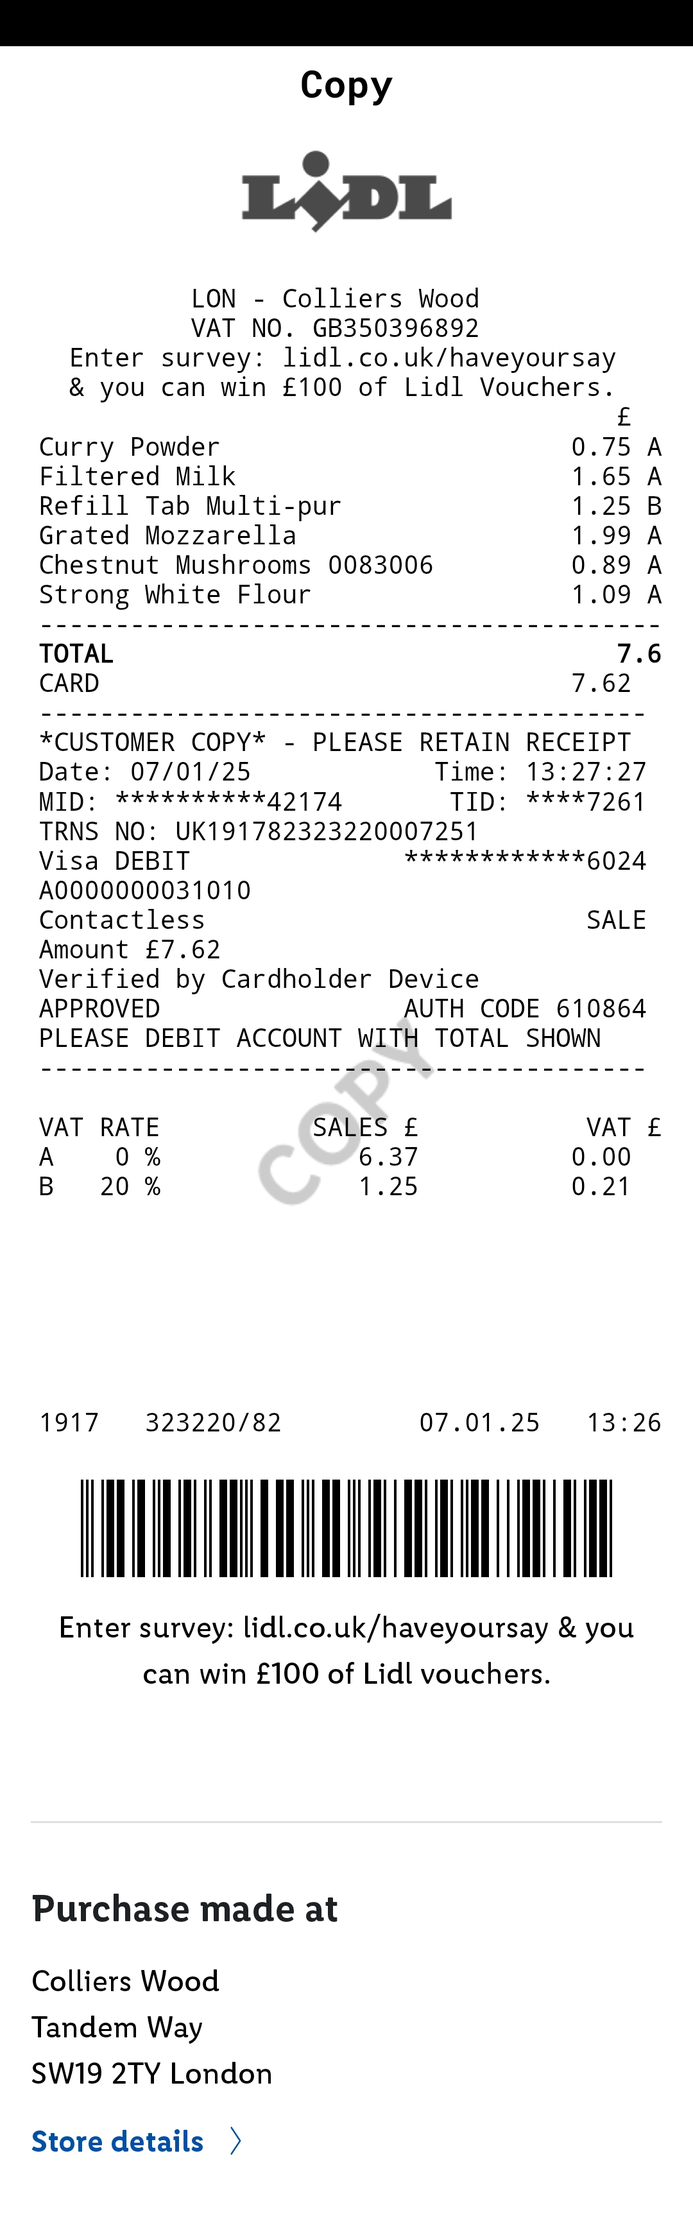
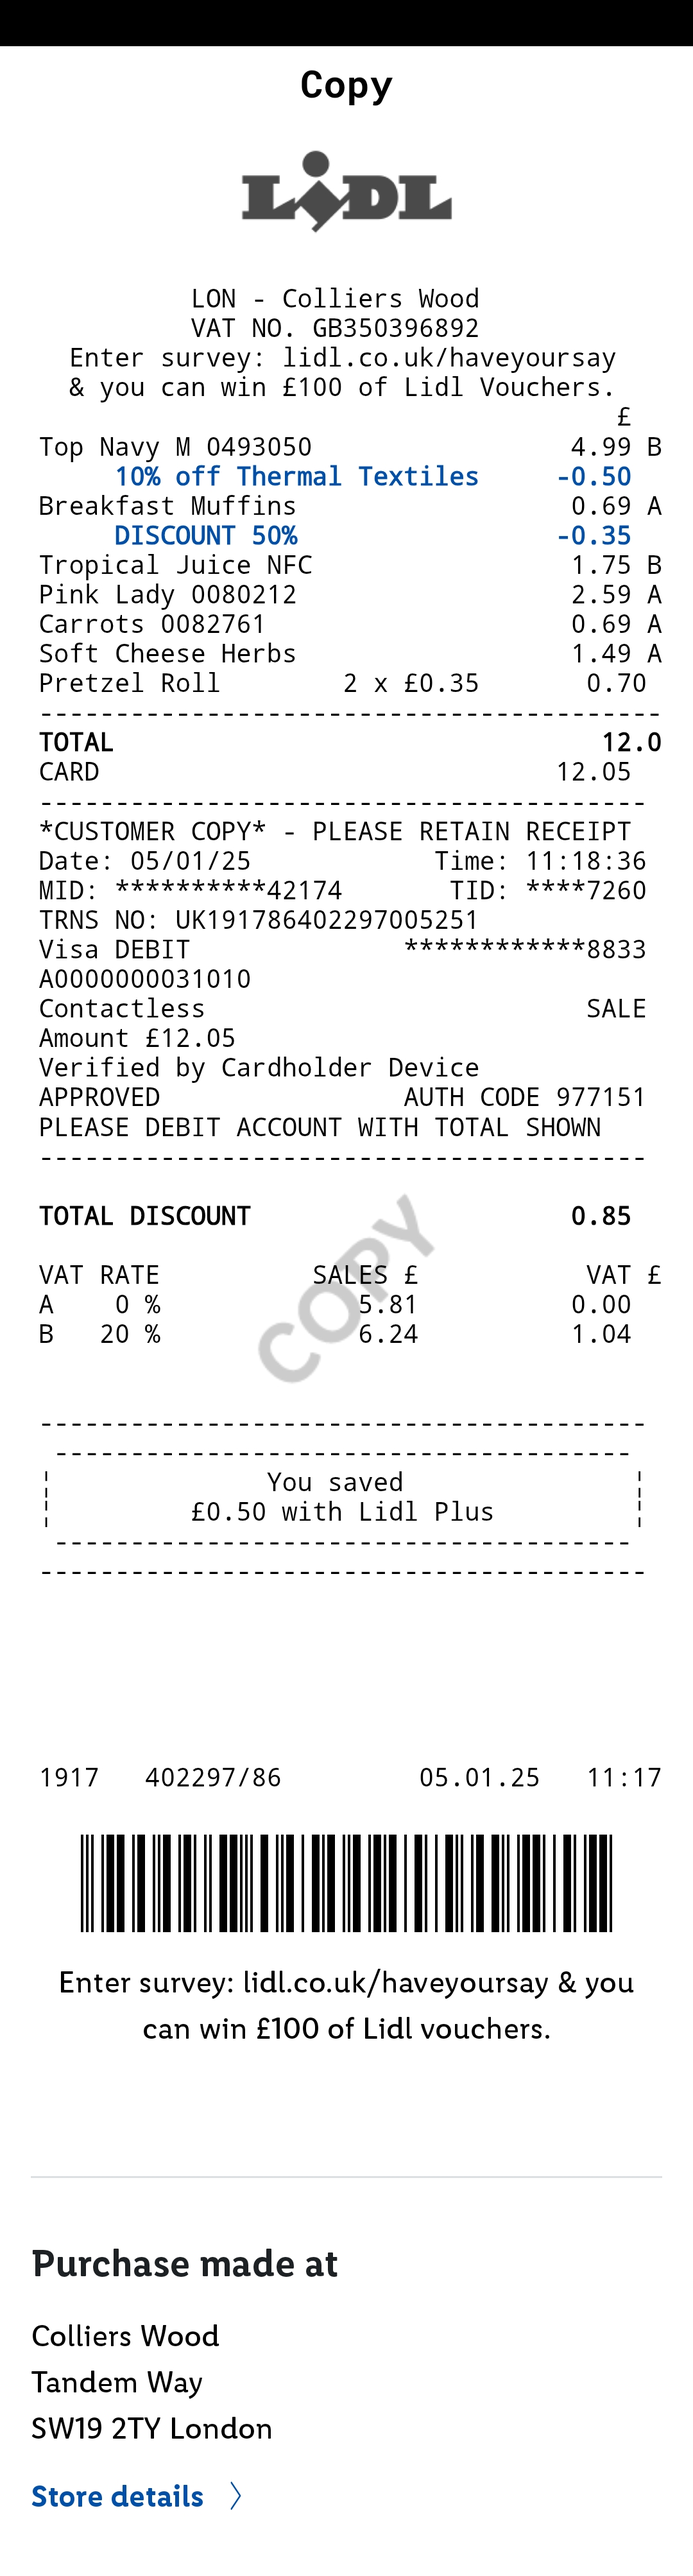
Fixed Lidl Card / Total Issues

diff --git a/PythonSrc/receipt_reader.py b/PythonSrc/receipt_reader.py
@@ -24,17 +24,30 @@ class ReceiptReader:
     def __init__(self,logger):
         self.compile_regex()
         self.logger = logger
+        self.log(message="Receipt reader initialized")
         self.file_handler = fh.FileHandler()
 
+    def log(self,message):
+        if self.logger:
+            self.logger.log_message(message)
+            return True
+        else:
+            return False
+        
+    # Retrieves the receipts from the receipts directory
     def get_receipts(self):
 
+        # Lists to hold the receipts to be processed and the excluded files
         receipts = []
         excluded_files = []
 
+        # Loops through all the files in the receipts directory
         for file in os.listdir(self.receipt_dir):
             
+            # Full path to the receipt
             receipt_loc = os.path.join(self.receipt_dir,file)
 
+            # Check whether the file is a valid photo
             pass_extension_check = self.file_extension_check(file)
             pass_openable_photo_check = self.open_photo_check(file,self.receipt_dir)
 
@@ -128,8 +141,7 @@ class ReceiptReader:
     
         text = pytesseract.image_to_string(denoised,lang='eng')
         lines = [line for line in text.splitlines() if line.strip()]
-        
-        print(lines)
+
         json_receipt = self.extract_items(lines)
 
         return json_receipt
@@ -141,7 +153,7 @@ class ReceiptReader:
         self.date_search = re.compile(r"(Date:\s+)(\d{2}\/\d{2}\/\d{2})")
         self.item_search = re.compile(r"(.*\s)(-?\d{1,3}\.\d{2})")
         self.total_search = re.compile(r"(TOTAL)(\s+)(\d{1,4}\.\d{1,2})")
-        self.payment_search = re.compile(r"CARD", re.IGNORECASE)
+        self.payment_search = re.compile(r"(CARD)(\s+)(\d{1,4}\.\d{1,2})")
         self.discount_search = re.compile(r"(TOTAL DISCOUNT\s*)(\d{1,2}.\d{1,2})")
         self.quantity_check = re.compile(r"(\d{1,2})(\s?[xX]{1,2}\s*£\d{1,2}.\d{1,2})")
         self.weight_check = re.compile(r"(\d{1,2}\.\d{1,3})(\s?kg\s?@\s?£\s?)(\d{1,2}\.\d{1,2})")
@@ -160,9 +172,6 @@ class ReceiptReader:
 
                if match:
 
-                   # Looking for payment information to skip
-                   payment = self.payment_search.search(match.group())
-
                    # Retrieves the total cost on the receipt
                    total_cost = self.total_search.search(match.group())
 
@@ -176,13 +185,16 @@ class ReceiptReader:
                    elif total_cost:
                        receipt_dict.update({"total":f"{total_cost.group(3)}"})
 
-                   elif not payment and not total_cost:
+                   elif not total_cost:
                        
                        quantity_check = self.quantity_check.search(line)
                        
                        weight_check_next = self.weight_check.search(text[i+1])
                        
                        weight_check_current = self.weight_check.search(line)
+
+                       # Introduced as part of LidlTotalFix
+                       card_cost = self.payment_search.search(line)
 
                        # Checks whether there is a quantity given for the item bought
                        if quantity_check:
@@ -202,6 +214,9 @@ class ReceiptReader:
                        elif weight_check_current:
                            continue
                        
+                       elif card_cost:
+                           receipt_dict.update({"total":f"{card_cost.group(3)}"})
+
                        # In general, add the name and price only
                        else:
                            items.append({"name":f"{match.group(1)}".strip(),
@@ -214,10 +229,10 @@ class ReceiptReader:
                
                if date:
                    receipt_dict.update({"date":f"{date.group(2)}"})
-
+                   
                # Looks for the time on the receipt 
                time = self.time_search.search(line)
-
+               
                if time:
                    receipt_dict.update({"time":f"{time.group(2)}"})
                    break
@@ -234,13 +249,11 @@ class ReceiptReader:
 
         # (For testing purposes only) Prints out the dictionary in JSON format
         json_receipt_nice = json.dumps(receipt_dict,indent=4,ensure_ascii=False).encode("utf-8")
-        #print(json_receipt_nice.decode())
 
         # Adds the receipt to the list of the receipts to be processed
         json_receipt = json.dumps(receipt_dict)
         self.receipts.append(json_receipt)
 
-        #print(json_receipt)
         return json_receipt
 
 

diff --git a/PythonSrc/database_connector.py b/PythonSrc/database_connector.py
@@ -53,7 +53,12 @@ class DatabaseConnector():
         # Send validated receipt data to the database
         items=validated_receipt['items']
         total=validated_receipt['total']
-        discount=validated_receipt['discount']
+        
+        if 'discount' not in validated_receipt:
+            discount = 0
+        else:
+            discount=validated_receipt['discount']
+
         date_from_r=validated_receipt['date']
 
         date_pattern = re.compile(r'(\d+)/(\d+)/(\d+)')

diff --git a/PythonSrc/master_dictionary.py b/PythonSrc/master_dictionary.py
@@ -4,7 +4,6 @@ import json
 class MasterDict:
 
     dictionary_location = None
-    #receipt_location = None
     master = None
 
     def __init__(self):
@@ -13,7 +12,6 @@ class MasterDict:
 
     def get_directories(self):
         self.dictionary_location = os.path.join(os.path.abspath("."),r"ShoppingTracker\MasterDictionary\MastDict.json")
-        #self.receipt_location = os.path.join(os.path.abspath(".",r"ShoppingTracker\Receipts"))
 
     def add_to_master():
         pass

diff --git a/PythonSrc/main.py b/PythonSrc/main.py
@@ -13,7 +13,6 @@ def main():
     logger = l.Logger(file_handler)
     logger.log_message("File handler and logger created")
     reader = rr.ReceiptReader(logger)
-    logger.log_message("Receipt reader created")
     logger.log_message("Retrieving receipts")
     valid_receipts, excluded = reader.get_receipts()
     validator = val.Validator(logger)

diff --git a/PythonSrc/validator.py b/PythonSrc/validator.py
@@ -61,8 +61,6 @@ class Validator():
             receipt = json.loads(json_receipt)
             
             if 'total' not in receipt:
-                print("NO TOTAL")
-                self.log_message("No total found on receipt")
                 return False
             else:
                 total_for_receipt = float(receipt["total"])
